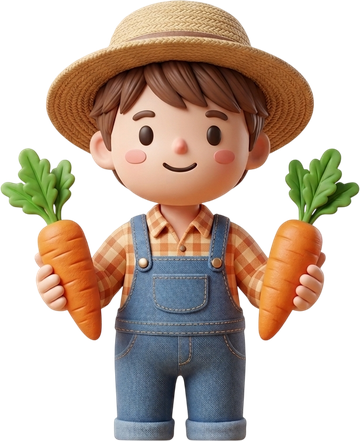
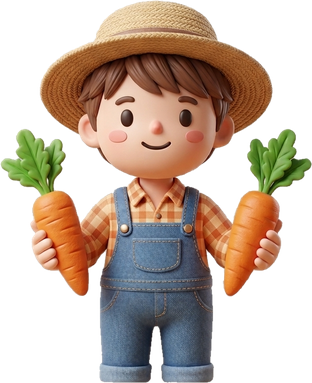
feat: 챗봇 캐릭터를 원본 고해상도에서 알파 추출해 교체 (312x383)
요청받은 이미지는 Downloads/Gemini_Generated_Image_d4077rd4077rd407.png
(1090x960)였는데, '투명 배경'이 실제 알파가 아니라 체커보드가 픽셀로
그려진 것이었다(네 꼭짓점 alpha=255). 그대로 넣으면 버튼에 회색 체크무늬
사각형이 그려진다.

- 배경이 무채색(R=G=B, 밝기>=185)이라는 점을 이용해, 테두리에서 연결된
  영역만 flood fill로 알파 0 처리. 눈 흰 하이라이트는 캐릭터에 둘러싸여
  있어 살아남는다(불투명·무채색·밝은 픽셀 60개 = 0.018%만 잔존).
- 경계의 체커보드 혼합 픽셀은 1px 침식 + 0.7px 블러로 halo 제거.
  어두운 배경에 합성해 흰 테두리 없음 확인.
- 타이트 크롭 617x757(비율 0.815)은 기존 360x441(0.816)과 동일 -
  버튼 CSS 기하는 그대로 유효하다.
- 표시 크기 104px의 3배인 312px로 리샘플. 165KB로 기존 213KB보다 작다.

vercel.json이 /uploads/* 를 immutable max-age=1년으로 서빙하므로
파일명을 유지한 채 내용만 바꾸면 기존 방문자가 옛 이미지를 계속 본다.
img src에 ?v=2 를 붙여 캐시를 무효화했다.

diff --git a/Beomin_web/CropAdvisor.dc.html b/Beomin_web/CropAdvisor.dc.html
@@ -1604,7 +1604,10 @@
        있어도 나머지 기능은 그대로 동작한다. -->
   <div class="anong-fab">
     <button type="button" class="anong-fab-btn" onClick="{{ chatToggle }}" aria-label="안농 도우미에게 물어보기">
-      <img src="uploads/chatbot_img.png" alt="안농 도우미" />
+      <!-- ?v=2 - vercel.json이 /uploads/* 를 immutable, max-age=1년으로 서빙한다.
+           파일명을 그대로 두고 내용만 바꾸면 이미 캐시한 방문자는 1년간 옛 이미지를
+           계속 본다. 이미지를 교체할 때는 이 숫자를 반드시 올려야 한다. -->
+      <img src="uploads/chatbot_img.png?v=2" alt="안농 도우미" />
     </button>
     <span class="anong-fab-bubble" aria-hidden="true">무엇을 도와드릴까요?</span>
   </div>
